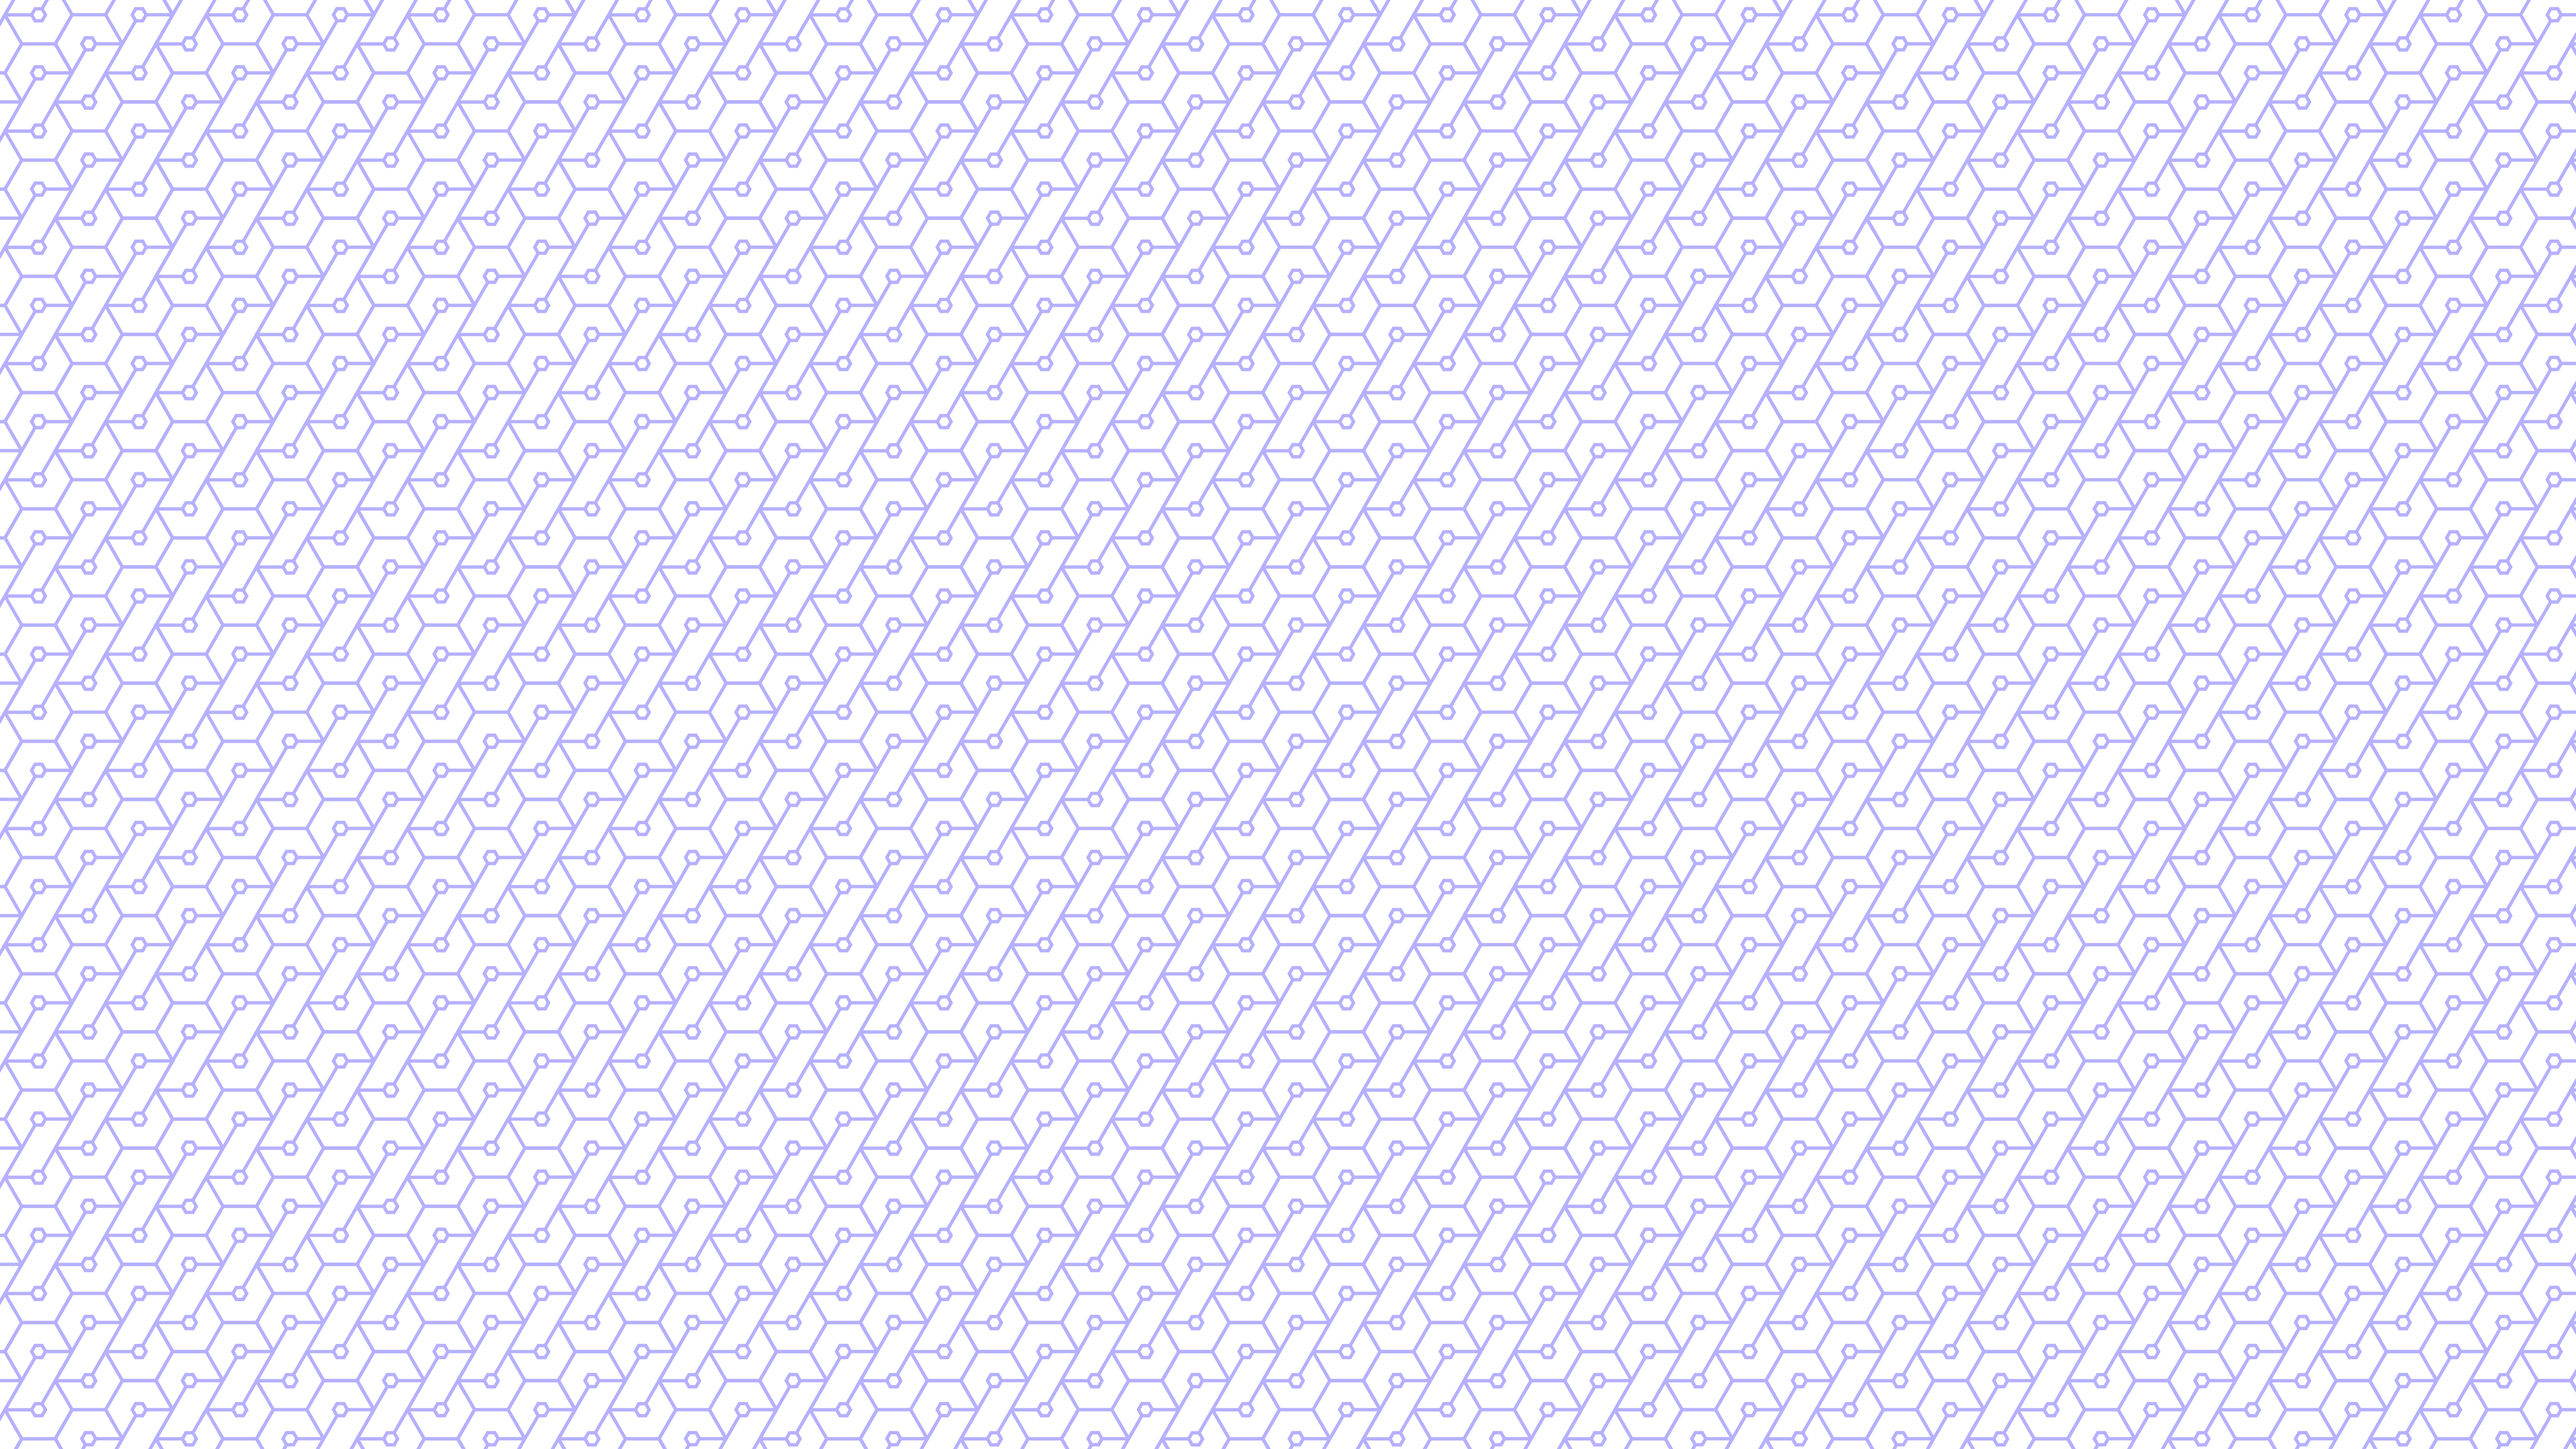
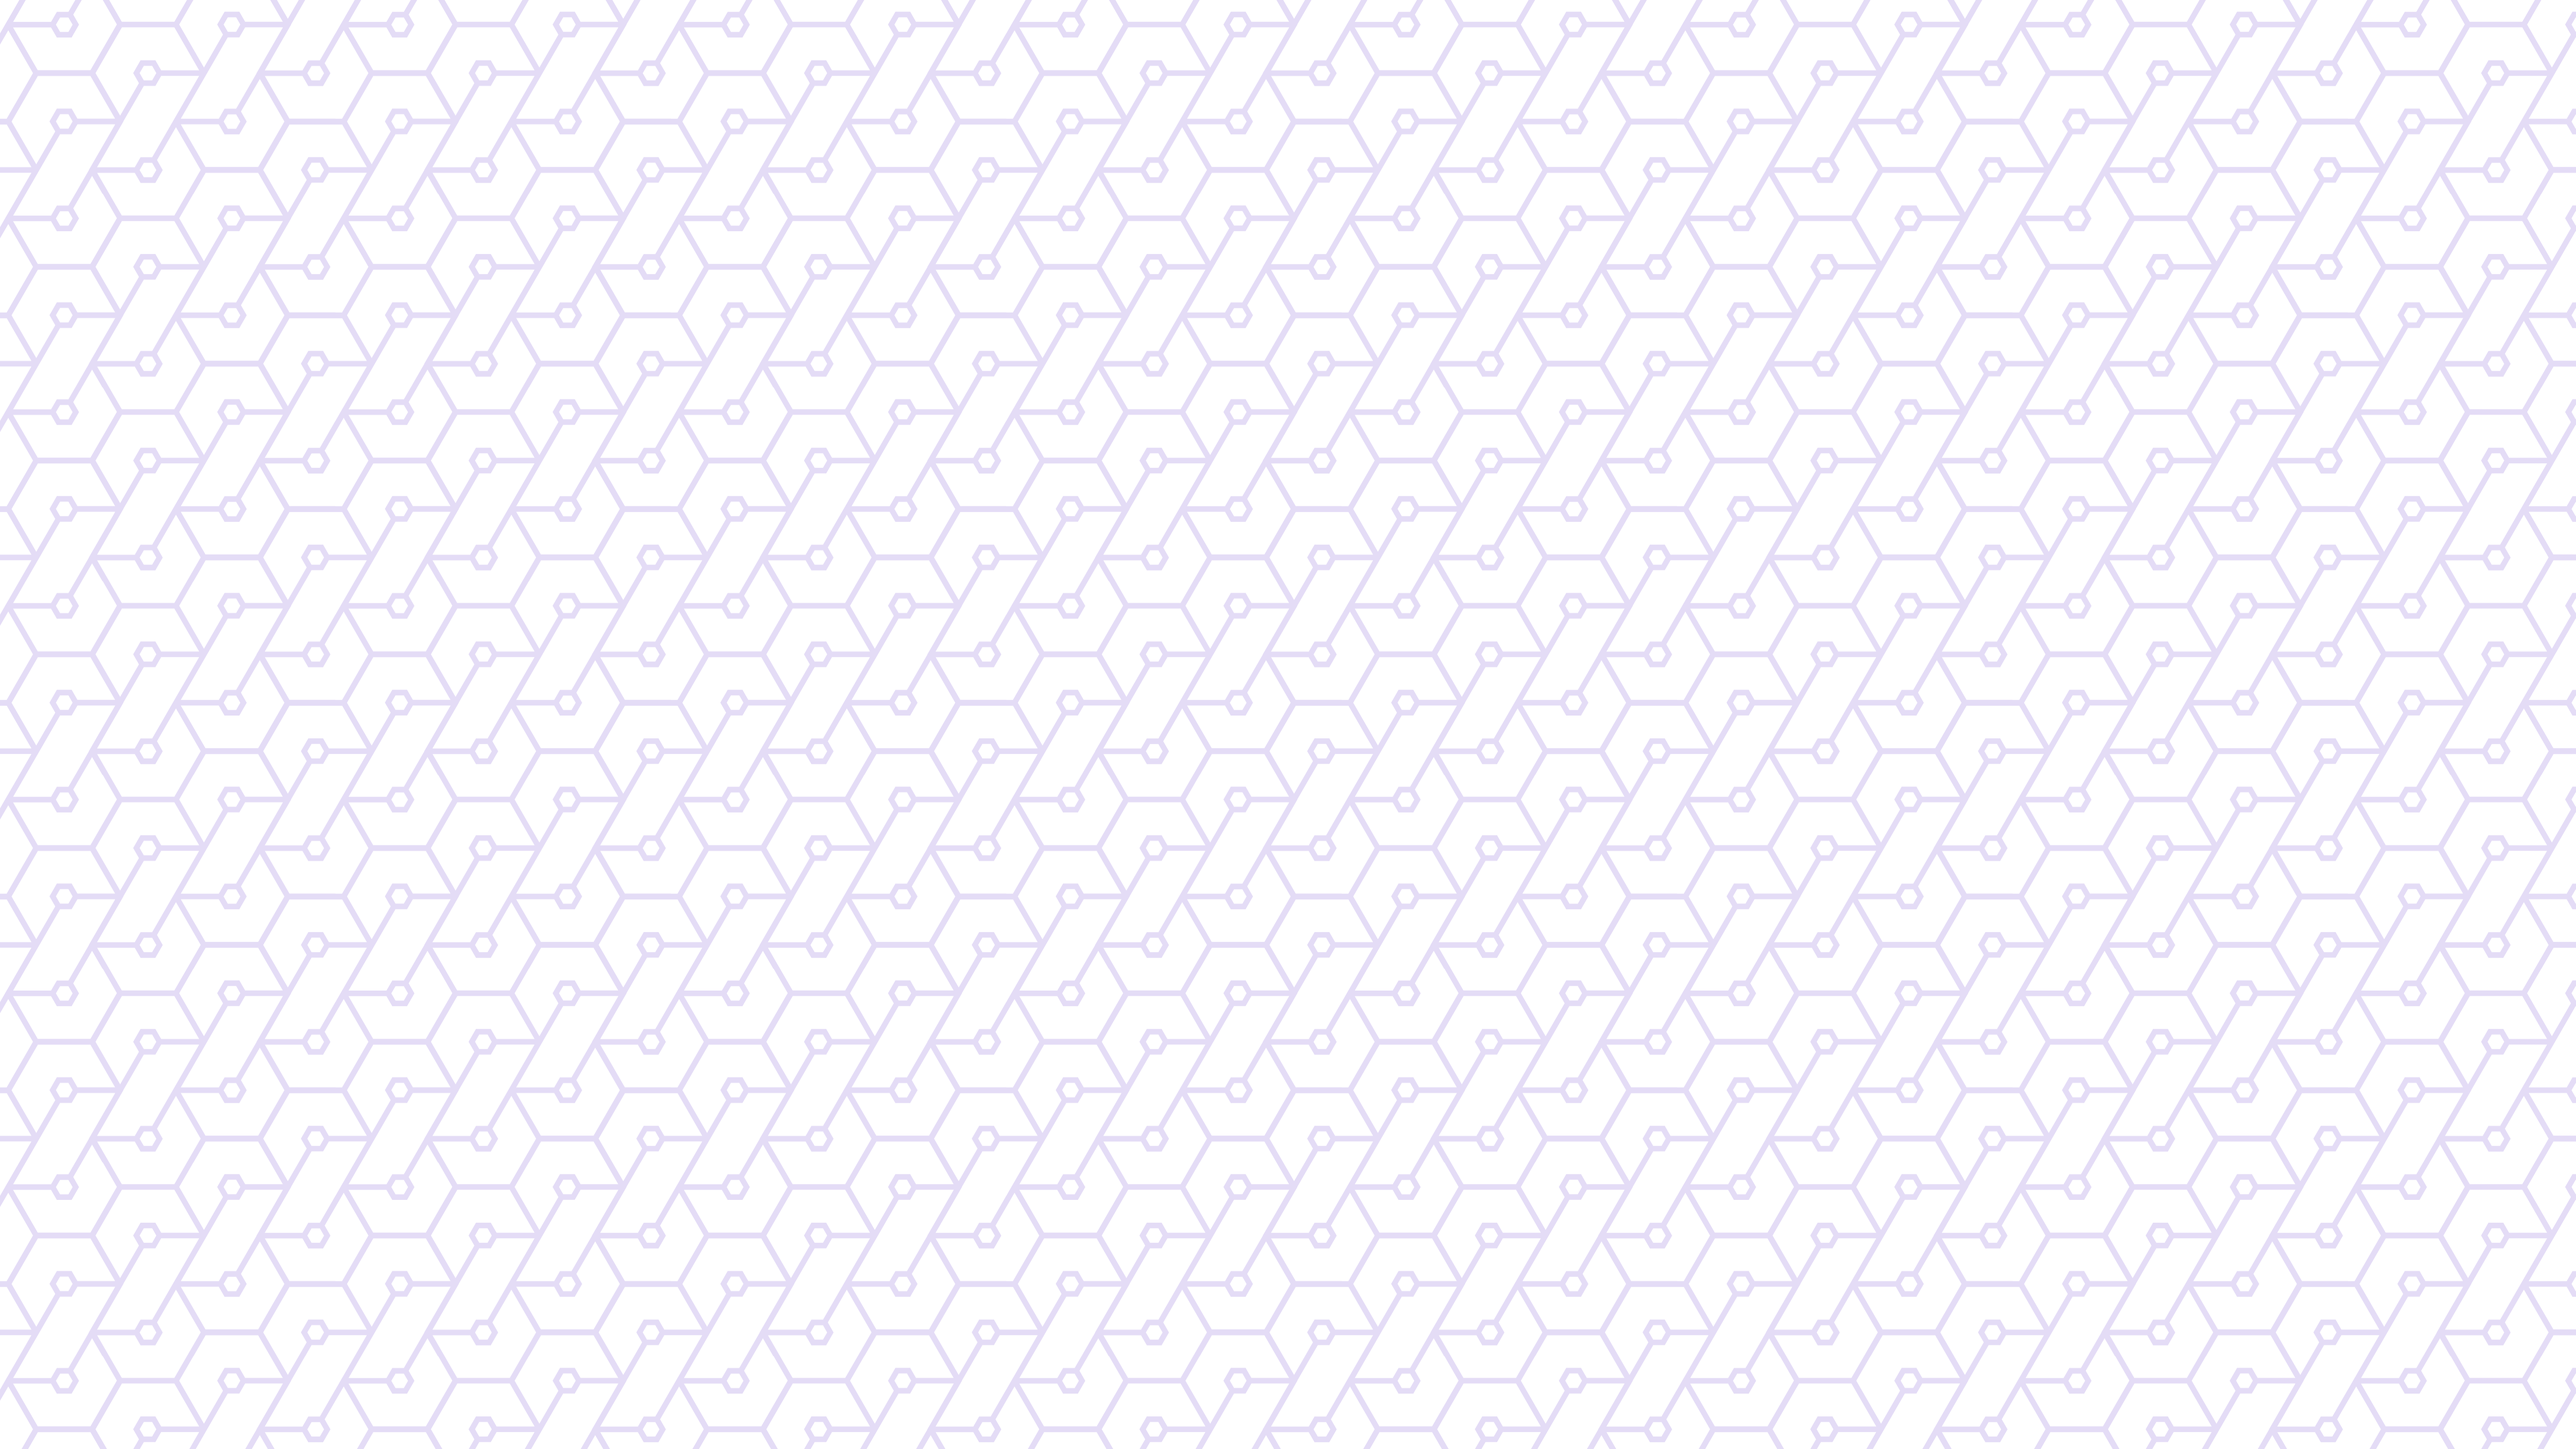
Updated background and layout

diff --git a/index.html b/index.html
@@ -18,87 +18,104 @@
     </div>
 
     <!-- Content -->
-    <div class="content">
-        <div class="container">
-            <div class="colour-guide">
-                <h3>Colours</h3>
-                <div class="colour-panel dark-back">
-                    <p>Dark Background</p>
-                    <p>Hex: #262626</p>
-                </div>
+    <div class="content-case">
+        <div class="content">
+            <div class="container">
+                <div class="colour-guide">
+                    <h3>Colours</h3>
+                    <div class="colour-panel dark-back">
+                        <p>Dark Background</p>
+                        <p>Hex: #262626</p>
+                    </div>
 
-                <div class="colour-panel dark-highlight">
-                    <p>Dark Highlight</p>
-                    <p>Hex: #383838</p>
-                </div>
+                    <div class="colour-panel dark-highlight">
+                        <p>Dark Highlight</p>
+                        <p>Hex: #383838</p>
+                    </div>
 
-                <div class="colour-panel light-back">
-                    <p>Light Background</p>
-                    <p>Hex: #e1e1e1</p>
-                </div>
+                    <div class="colour-panel light-back">
+                        <p>Light Background</p>
+                        <p>Hex: #e1e1e1</p>
+                    </div>
 
-                <div class="colour-panel light-highlight">
-                    <p>Light Highlight</p>
-                    <p>Hex: #bbbbbb</p>
-                </div>
+                    <div class="colour-panel light-highlight">
+                        <p>Light Highlight</p>
+                        <p>Hex: #bbbbbb</p>
+                    </div>
 
-                <div class="colour-panel border">
-                    <p>Border</p>
-                    <p>Hex: #808080</p>
+                    <div class="colour-panel border">
+                        <p>Border</p>
+                        <p>Hex: #808080</p>
+                    </div>
+
+                    <div class="colour-panel feature">
+                        <p>Feature</p>
+                        <p>Hex: #5900FF</p>
+                    </div>
                 </div>
             </div>
-        </div>
 
-        <div class="container">
-            <div class="font-guide">
-                <h3>Fonts</h3>
-                <div class="font-panel montserrat">
-                    <h4>Montserrat</h4>
-                    <p>The Quick Brown Fox Jumps Over The Lazy Dog</p>
-                    <p><em>The Quick Brown Fox Jumps Over The Lazy Dog</em></p>
-                    <p><strong>The Quick Brown Fox Jumps Over The Lazy Dog</strong></p>
+            <div class="container">
+                <div class="font-guide">
+                    <h3>Fonts</h3>
+                    <div class="font-panel montserrat">
+                        <h4>Montserrat</h4>
+                        <p>The Quick Brown Fox Jumps Over The Lazy Dog</p>
+                        <p><em>The Quick Brown Fox Jumps Over The Lazy Dog</em></p>
+                        <p><strong>The Quick Brown Fox Jumps Over The Lazy Dog</strong></p>
+                    </div>
+                    <div class="font-panel arial">
+                        <h4>Arial</h4>
+                        <p>The Quick Brown Fox Jumps Over The Lazy Dog</p>
+                        <p><em>The Quick Brown Fox Jumps Over The Lazy Dog</em></p>
+                        <p><strong>The Quick Brown Fox Jumps Over The Lazy Dog</strong></p>
+                    </div>
+                    <div class="font-panel source-code-pro">
+                        <h4>Source Code Pro</h4>
+                        <p>The Quick Brown Fox Jumps Over The Lazy Dog</p>
+                        <p><em>The Quick Brown Fox Jumps Over The Lazy Dog</em></p>
+                        <p><strong>The Quick Brown Fox Jumps Over The Lazy Dog</strong></p>
+                    </div>
+                    <div class="font-panel inconsolata">
+                        <h4>Inconsolata</h4>
+                        <p>The Quick Brown Fox Jumps Over The Lazy Dog</p>
+                        <p><em>The Quick Brown Fox Jumps Over The Lazy Dog</em></p>
+                        <p><strong>The Quick Brown Fox Jumps Over The Lazy Dog</strong></p>
+                    </div>
                 </div>
-                <div class="font-panel arial">
-                    <h4>Arial</h4>
-                    <p>The Quick Brown Fox Jumps Over The Lazy Dog</p>
-                    <p><em>The Quick Brown Fox Jumps Over The Lazy Dog</em></p>
-                    <p><strong>The Quick Brown Fox Jumps Over The Lazy Dog</strong></p>
-                </div>
-                <div class="font-panel source-code-pro">
-                    <h4>Source Code Pro</h4>
-                    <p>The Quick Brown Fox Jumps Over The Lazy Dog</p>
-                    <p><em>The Quick Brown Fox Jumps Over The Lazy Dog</em></p>
-                    <p><strong>The Quick Brown Fox Jumps Over The Lazy Dog</strong></p>
-                </div>
-                <div class="font-panel inconsolata">
-                    <h4>Inconsolata</h4>
-                    <p>The Quick Brown Fox Jumps Over The Lazy Dog</p>
-                    <p><em>The Quick Brown Fox Jumps Over The Lazy Dog</em></p>
-                    <p><strong>The Quick Brown Fox Jumps Over The Lazy Dog</strong></p>
+                <ul>
+                    <li>
+                        <p><a href="https://fonts.google.com/specimen/Montserrat" target="_blank"
+                                class="montserrat">Montserrat</a> is to be used for titles.</p>
+                    </li>
+                    <li>
+                        <p>Arial is to be used for body text.</p>
+                    </li>
+                    <li>
+                        <p><a href="https://fonts.google.com/specimen/Source+Code+Pro" target="_blank"
+                                class="source-code-pro">Source Code Pro</a> is to be used for code.</p>
+                    </li>
+                    <li>
+                        <p><a href="https://fonts.google.com/specimen/Inconsolata" target="_blank"
+                                class="inconsolata">Inconsolata</a> is to be used for small print, i.e. footer.</p>
+                    </li>
+                </ul>
+            </div>
+
+            <div class="container">
+                <div class="text-styles">
+                    <h3>Text Styles</h3>
+
                 </div>
             </div>
-            <ul>
-                <li>
-                    <p>Montserrat is to be used for titles.</p>
-                </li>
-                <li>
-                    <p>Arial is to be used for body text.</p>
-                </li>
-                <li>
-                    <p>Source Code Pro is to be used for code.</p>
-                </li>
-                <li>
-                    <p>Inconsolata is to be used for small print, i.e. footer.</p>
-                </li>
-            </ul>
-        </div>
 
-        <div class="container">
-            <div class="text-styles">
-                <h3>Text Styles</h3>
+            <div class="container">
+                <div class="images">
+                    <h3>Image Resources</h3>
+                </div>
             </div>
-        </div>
 
+        </div>
     </div>
 
     <!-- Footer -->
@@ -107,7 +124,8 @@
             <p>Nathan Hannan-McCulloch</p>
         </div>
         <div class="footer-button">
-            <button onclick="toggle()"><img id="theme-icon" src="resources/darkIcon.png" height="110px" width="110px"></button>
+            <button onclick="toggle()"><img id="theme-icon" src="resources/darkIcon.png" height="110px"
+                    width="110px"></button>
         </div>
         <div class="footer-year">
             <p>2024</p>

diff --git a/resources/style.css b/resources/style.css
@@ -46,6 +46,31 @@ h4 {
     margin-bottom: 15px;
 }
 
+p {
+    font-size: 18px;
+}
+
+a {
+    text-decoration: none;
+    font-weight: bold;
+    color: #5900FF;
+}
+
+a:hover {
+    text-decoration: underline;
+}
+
+a:active {
+    text-decoration: underline;
+    color: white;
+}
+
+.dark-mode a:active {
+    text-decoration: underline;
+    color: black;
+}
+
+
 .banner {
     display: flex;
     justify-content: center;
@@ -63,10 +88,17 @@ h4 {
     padding-top: 0px;
 }
 
+.content-case{
+    display: flex;
+    justify-content: center;
+}
+
 .content {
     font-family: Arial, Helvetica, sans-serif;
     padding: 10px 20px;
     margin: 30px 10%;
+    max-width: 1000px;
+    display: block;
 }
 
 .container {
@@ -82,14 +114,14 @@ h4 {
 }
 
 .colour-guide {
-    padding: 2px 10px;
+    padding: 10px 20px;
 }
 
 .colour-panel {
     border: 10px solid white;
     display: inline-block;
     box-sizing: border-box;
-    width: 300px;
+    width: 290px;
     height: 140px;
     margin: 5px;
     text-align: center;
@@ -122,13 +154,22 @@ h4 {
     transition: 0.1s;
 }
 
-.dark-mode .border {
+.feature {
+    background-color: #5900FF;
+    color: white;
+    transition: 0.1s;
+}
+
+.dark-mode .border,
+.dark-mode .feature {
     border: 10px solid black;
     transition: 0.1s;
 }
 
 .font-guide {
     padding: 2px 20px;
+    display: block;
+
 }
 
 .font-guide h3 {
